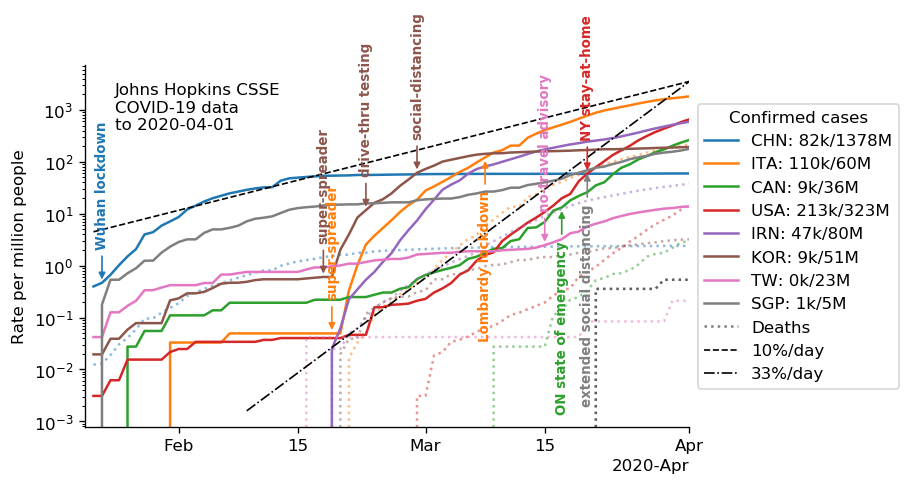
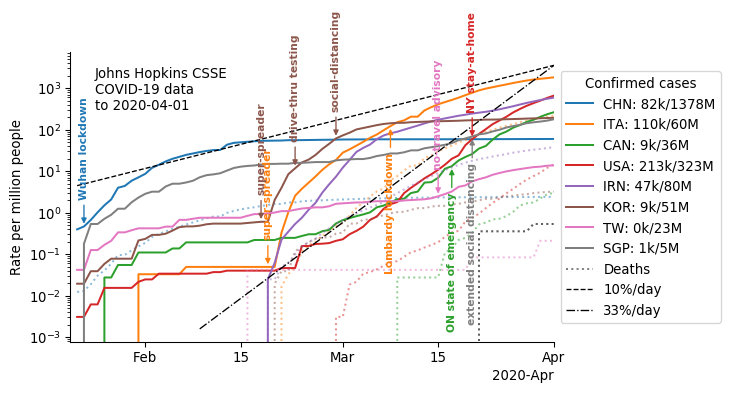
Go back to lower resolution, suitable for web display.

diff --git a/visualization/plots.py b/visualization/plots.py
@@ -81,7 +81,7 @@ SGC_CODES = {
     61: 'NT',
     62: 'NU',
     }
-
+DPI = 96
 
 # %% definitions
 def maybe_date(item):
@@ -230,7 +230,7 @@ for i, countries in enumerate(PLOT_COUNTRIES, start=1):
     ax.spines['right'].set_visible(False)
 
     confirmed_png = 'CountriesConfirmed%d.png' % i
-    fig.savefig(confirmed_png, dpi=120, bbox_inches='tight')
+    fig.savefig(confirmed_png, dpi=DPI, bbox_inches='tight')
 
 # %% plot country data
 fig, ax = plt.subplots(figsize=(6.5, 4))
@@ -278,4 +278,4 @@ ax.spines['top'].set_visible(False)
 ax.spines['right'].set_visible(False)
 
 confirmed_png = 'ProvincesConfirmed.png'
-fig.savefig(confirmed_png, dpi=120, bbox_inches='tight')
+fig.savefig(confirmed_png, dpi=DPI, bbox_inches='tight')
